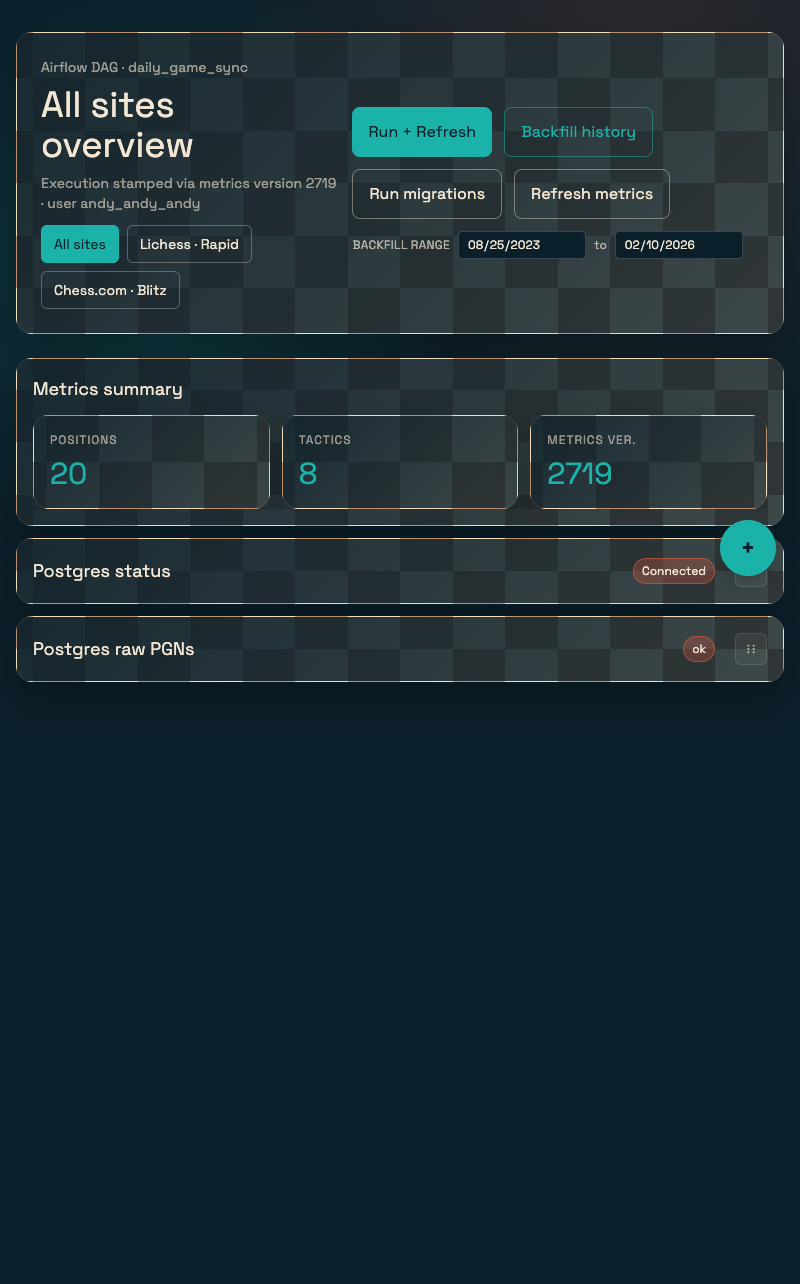
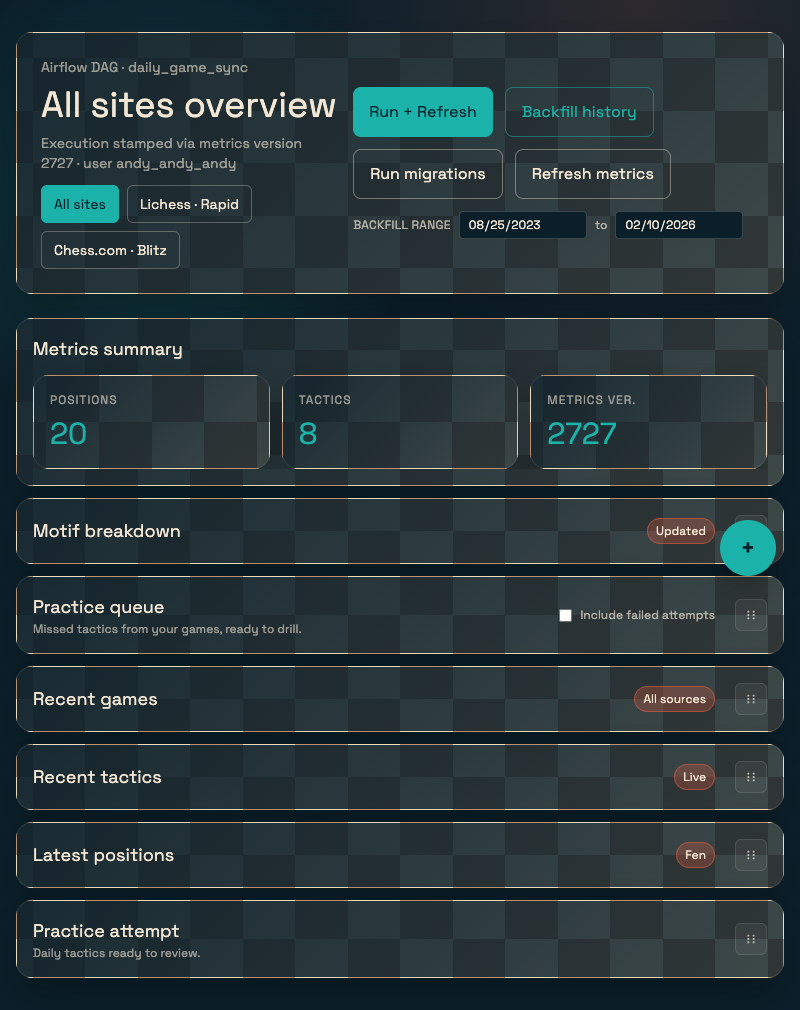
[dev]Add practice button entry point
- Added dashboard practice action button with availability status

- Added practice button tests and verification scripts

- Screenshots in verification/

- Tests: make lint; vitest run src/flows/DashboardFlow.test.tsx; make check (fails: pytest coverage 94.55% and tests/test_api_stats_motifs.py::test_stats_motifs_returns_schema)

diff --git a/client/src/flows/DashboardFlow.tsx b/client/src/flows/DashboardFlow.tsx
@@ -1,4 +1,11 @@
-import { useCallback, useEffect, useMemo, useRef, useState } from 'react';
+import {
+  useCallback,
+  useEffect,
+  useId,
+  useMemo,
+  useRef,
+  useState,
+} from 'react';
 import { DragDropContext, Draggable, Droppable } from '@hello-pangea/dnd';
 import { ColumnDef } from '@tanstack/react-table';
 import { Chess, Square } from 'chess.js';
@@ -289,11 +296,58 @@ export default function DashboardFlow() {
   const [filtersModalOpen, setFiltersModalOpen] = useState(false);
   const [databaseModalOpen, setDatabaseModalOpen] = useState(false);
   const [practiceModalOpen, setPracticeModalOpen] = useState(false);
+  const practiceStatusId = useId();
 
   const currentPractice = useMemo(
     () => (practiceQueue.length ? practiceQueue[0] : null),
     [practiceQueue],
   );
+
+  const practiceButtonState = useMemo(() => {
+    if (practiceLoading) {
+      return {
+        label: 'Loading practice...',
+        helper: 'Fetching the daily practice queue.',
+        disabled: true,
+      };
+    }
+
+    if (practiceError) {
+      return {
+        label: 'Practice unavailable',
+        helper: practiceError,
+        disabled: true,
+      };
+    }
+
+    if (currentPractice) {
+      const count = practiceQueue.length;
+      const label = practiceModalOpen ? 'Continue practice' : 'Start practice';
+      const helper = `${count} tactic${count === 1 ? '' : 's'} ready.`;
+      return { label, helper, disabled: false };
+    }
+
+    if (practiceSession.total > 0) {
+      return {
+        label: 'Practice complete',
+        helper: 'Daily set complete. Great work.',
+        disabled: true,
+      };
+    }
+
+    return {
+      label: 'No practice items',
+      helper: 'Refresh metrics to find new tactics.',
+      disabled: true,
+    };
+  }, [
+    currentPractice,
+    practiceError,
+    practiceLoading,
+    practiceModalOpen,
+    practiceQueue.length,
+    practiceSession.total,
+  ]);
 
   const floatingActions = useMemo<FloatingAction[]>(
     () => [
@@ -1682,49 +1736,30 @@ export default function DashboardFlow() {
       },
     ];
   }, [
-    chesscomProfile,
     currentPractice,
     data,
-    filters,
     handleIncludeFailedAttemptChange,
-    handleFiltersChange,
     handleOpenChessboardModal,
-    handleResetFilters,
-    handleSourceChange,
     includeFailedAttempt,
     jobProgress,
     jobStatus,
-    lichessProfile,
-    loading,
     metricsTrendsColumns,
     motifDropIndicatorIndex,
-    motifOptions,
     orderedMotifBreakdown,
-    postgresAnalysis,
-    postgresAnalysisLoading,
-    postgresLoading,
-    postgresRawPgns,
-    postgresRawPgnsError,
-    postgresRawPgnsLoading,
-    postgresStatus,
     practiceLoading,
     practiceModalOpen,
     practiceQueue,
     practiceQueueColumns,
     practiceSession,
     handleOpenPracticeModal,
-    ratingOptions,
     recentGamesColumns,
     resolveGameSource,
-    source,
     tacticsColumns,
-    timeControlOptions,
     timeTroubleColumns,
     timeTroubleSortedRows,
     totals.positions,
     totals.tactics,
     trendLatestRows,
-    filtersModalOpen,
   ]);
 
   const dashboardCardIds = useMemo(
@@ -1773,6 +1808,31 @@ export default function DashboardFlow() {
         onBackfillStartChange={handleBackfillStartChange}
         onBackfillEndChange={handleBackfillEndChange}
       />
+
+      <div className="card p-4 flex flex-col gap-3 md:flex-row md:items-center md:justify-between">
+        <div>
+          <h2 className="text-lg font-display text-sand">Practice</h2>
+          <p
+            id={practiceStatusId}
+            className="text-xs text-sand/60"
+            role="status"
+            aria-live="polite"
+            data-testid="practice-button-status"
+          >
+            {practiceButtonState.helper}
+          </p>
+        </div>
+        <ActionButton
+          type="button"
+          className="rounded-lg border border-white/10 px-4 py-3 text-sm text-sand hover:border-white/30 disabled:cursor-not-allowed disabled:opacity-60"
+          onClick={handleOpenPracticeModal}
+          disabled={practiceButtonState.disabled}
+          aria-describedby={practiceStatusId}
+          data-testid="practice-button"
+        >
+          {practiceButtonState.label}
+        </ActionButton>
+      </div>
 
       {error ? <ErrorCard message={error} /> : null}
 

diff --git a/verification/puppeteer_feature_practice_button.js b/verification/puppeteer_feature_practice_button.js
@@ -1,0 +1,95 @@
+const path = require('path');
+const puppeteer = require('../client/node_modules/puppeteer');
+const {
+  attachConsoleCapture,
+  captureScreenshot,
+} = require('./helpers/puppeteer_capture');
+const {
+  selectSource,
+  ensurePracticeCardExpanded,
+} = require('./enter_submit_helpers');
+
+const targetUrl = process.env.TACTIX_UI_URL || 'http://localhost:5173/';
+const screenshotName =
+  process.env.TACTIX_SCREENSHOT_NAME || 'feature-practice-button-2026-02-10.png';
+const source = process.env.TACTIX_SOURCE || 'chesscom';
+
+const selectors = {
+  practiceButton: '[data-testid="practice-button"]',
+  practiceStatus: '[data-testid="practice-button-status"]',
+  practiceQueueRow: '[data-testid^="practice-queue-row-"]',
+  practiceModal: '[data-testid="chessboard-modal"]',
+  practiceMoveInput: '[data-testid="chessboard-modal"] input[placeholder*="UCI"]',
+};
+
+const allowedDisabledLabels = [
+  'No practice items',
+  'Practice complete',
+  'Practice unavailable',
+  'Loading practice...',
+];
+
+(async () => {
+  const browser = await puppeteer.launch({ headless: 'new' });
+  const page = await browser.newPage();
+  const consoleErrors = attachConsoleCapture(page);
+
+  try {
+    await page.goto(targetUrl, { waitUntil: 'networkidle0' });
+    await page.waitForSelector('h1', { timeout: 60000 });
+    await selectSource(page, source);
+    await ensurePracticeCardExpanded(page);
+
+    await page.waitForSelector(selectors.practiceButton, { timeout: 60000 });
+
+    const hasQueueRows = await page.$$eval(
+      selectors.practiceQueueRow,
+      (rows) => rows.length > 0,
+    );
+
+    const buttonState = await page.$eval(selectors.practiceButton, (button) => {
+      return {
+        disabled: button instanceof HTMLButtonElement && button.disabled,
+        label: button.textContent?.trim() || '',
+      };
+    });
+
+    if (hasQueueRows) {
+      if (buttonState.disabled) {
+        throw new Error('Practice button should be enabled when queue items exist.');
+      }
+      await page.click(selectors.practiceButton);
+      await page.waitForSelector(selectors.practiceModal, { timeout: 60000 });
+      await page.waitForSelector(selectors.practiceMoveInput, { timeout: 60000 });
+    } else {
+      if (!buttonState.disabled) {
+        throw new Error('Practice button should be disabled when no queue items exist.');
+      }
+      if (!allowedDisabledLabels.some((label) => buttonState.label.includes(label))) {
+        const status = await page.$eval(
+          selectors.practiceStatus,
+          (node) => node.textContent || '',
+        );
+        throw new Error(
+          `Practice button label unexpected: "${buttonState.label}" (status: "${status}")`,
+        );
+      }
+    }
+
+    const outPath = await captureScreenshot(
+      page,
+      path.resolve(__dirname),
+      screenshotName,
+    );
+    console.log('Saved screenshot to', outPath);
+
+    if (consoleErrors.length) {
+      throw new Error(`Console errors detected: ${consoleErrors.join('\n')}`);
+    }
+  } finally {
+    await browser.close();
+  }
+})().catch((err) => {
+  console.error(err);
+  process.exit(1);
+});

diff --git a/verification/integration_feature_practice_button.js b/verification/integration_feature_practice_button.js
@@ -1,0 +1,63 @@
+const puppeteer = require('../client/node_modules/puppeteer');
+const { attachConsoleCapture } = require('./helpers/puppeteer_capture');
+const {
+  selectSource,
+  ensurePracticeCardExpanded,
+} = require('./enter_submit_helpers');
+
+const targetUrl = process.env.TACTIX_UI_URL || 'http://localhost:5173/';
+const source = process.env.TACTIX_SOURCE || 'chesscom';
+
+const selectors = {
+  practiceButton: '[data-testid="practice-button"]',
+  practiceQueueRow: '[data-testid^="practice-queue-row-"]',
+  practiceModal: '[data-testid="chessboard-modal"]',
+  practiceMoveInput: '[data-testid="chessboard-modal"] input[placeholder*="UCI"]',
+};
+
+(async () => {
+  const browser = await puppeteer.launch({ headless: 'new' });
+  const page = await browser.newPage();
+  const consoleErrors = attachConsoleCapture(page);
+
+  try {
+    await page.goto(targetUrl, { waitUntil: 'networkidle0' });
+    await page.waitForSelector('h1', { timeout: 60000 });
+    await selectSource(page, source);
+    await ensurePracticeCardExpanded(page);
+
+    await page.waitForSelector(selectors.practiceButton, { timeout: 60000 });
+
+    const hasQueueRows = await page.$$eval(
+      selectors.practiceQueueRow,
+      (rows) => rows.length > 0,
+    );
+
+    const isDisabled = await page.$eval(
+      selectors.practiceButton,
+      (button) => button instanceof HTMLButtonElement && button.disabled,
+    );
+
+    if (hasQueueRows) {
+      if (isDisabled) {
+        throw new Error('Practice button should be enabled when queue items exist.');
+      }
+      await page.click(selectors.practiceButton);
+      await page.waitForSelector(selectors.practiceModal, { timeout: 60000 });
+      await page.waitForSelector(selectors.practiceMoveInput, { timeout: 60000 });
+    } else if (!isDisabled) {
+      throw new Error('Practice button should be disabled when no queue items exist.');
+    }
+
+    if (consoleErrors.length) {
+      throw new Error(`Console errors detected: ${consoleErrors.join('\n')}`);
+    }
+
+    console.log('Practice button integration verified.');
+  } finally {
+    await browser.close();
+  }
+})().catch((err) => {
+  console.error(err);
+  process.exit(1);
+});

diff --git a/client/src/flows/DashboardFlow.test.tsx b/client/src/flows/DashboardFlow.test.tsx
@@ -402,6 +402,54 @@ describe('DashboardFlow', () => {
     expect(motifSelect.value).toBe('hanging_piece');
   });
 
+  it('enables the practice button when queue items are available', async () => {
+    render(<DashboardFlow />);
+
+    await waitFor(() => {
+      expect(fetchPracticeQueue).toHaveBeenCalled();
+    });
+
+    const practiceButton = screen.getByTestId('practice-button');
+
+    await waitFor(() => {
+      expect(practiceButton).toBeEnabled();
+    });
+
+    expect(practiceButton).toHaveTextContent('Start practice');
+
+    fireEvent.click(practiceButton);
+
+    const modal = await screen.findByTestId('chessboard-modal');
+    expect(modal).toBeInTheDocument();
+  });
+
+  it('disables the practice button when no queue items are available', async () => {
+    (
+      fetchPracticeQueue as unknown as ReturnType<typeof vi.fn>
+    ).mockResolvedValue({
+      source: 'chesscom',
+      include_failed_attempt: false,
+      items: [],
+    });
+
+    render(<DashboardFlow />);
+
+    await waitFor(() => {
+      expect(fetchPracticeQueue).toHaveBeenCalled();
+    });
+
+    const practiceButton = screen.getByTestId('practice-button');
+
+    await waitFor(() => {
+      expect(practiceButton).toBeDisabled();
+    });
+
+    expect(practiceButton).toHaveTextContent('No practice items');
+    expect(screen.getByTestId('practice-button-status')).toHaveTextContent(
+      'Refresh metrics to find new tactics.',
+    );
+  });
+
   it('filters non-scoped motifs from metrics, tactics, and practice queue', async () => {
     const scopedDashboard: DashboardPayload = {
       ...baseDashboard,

diff --git a/client/src/components.ts b/client/src/components.ts
@@ -11,9 +11,6 @@ import RecentTacticsCard from './_components/RecentTacticsCard';
 import ErrorCard from './_components/ErrorCard';
 import FiltersCard from './_components/FiltersCard';
 import MetricsSummaryCard from './_components/MetricsSummaryCard';
-import PostgresStatusCard from './_components/PostgresStatusCard';
-import PostgresRawPgnsCard from './_components/PostgresRawPgnsCard';
-import PostgresAnalysisCard from './_components/PostgresAnalysisCard';
 import DatabaseModal from './_components/DatabaseModal';
 import JobProgressCard from './_components/JobProgressCard';
 import PracticeAttemptCard from './_components/PracticeAttemptCard';
@@ -35,9 +32,6 @@ export {
   ErrorCard,
   FiltersCard,
   MetricsSummaryCard,
-  PostgresStatusCard,
-  PostgresRawPgnsCard,
-  PostgresAnalysisCard,
   DatabaseModal,
   JobProgressCard,
   PracticeAttemptCard,
